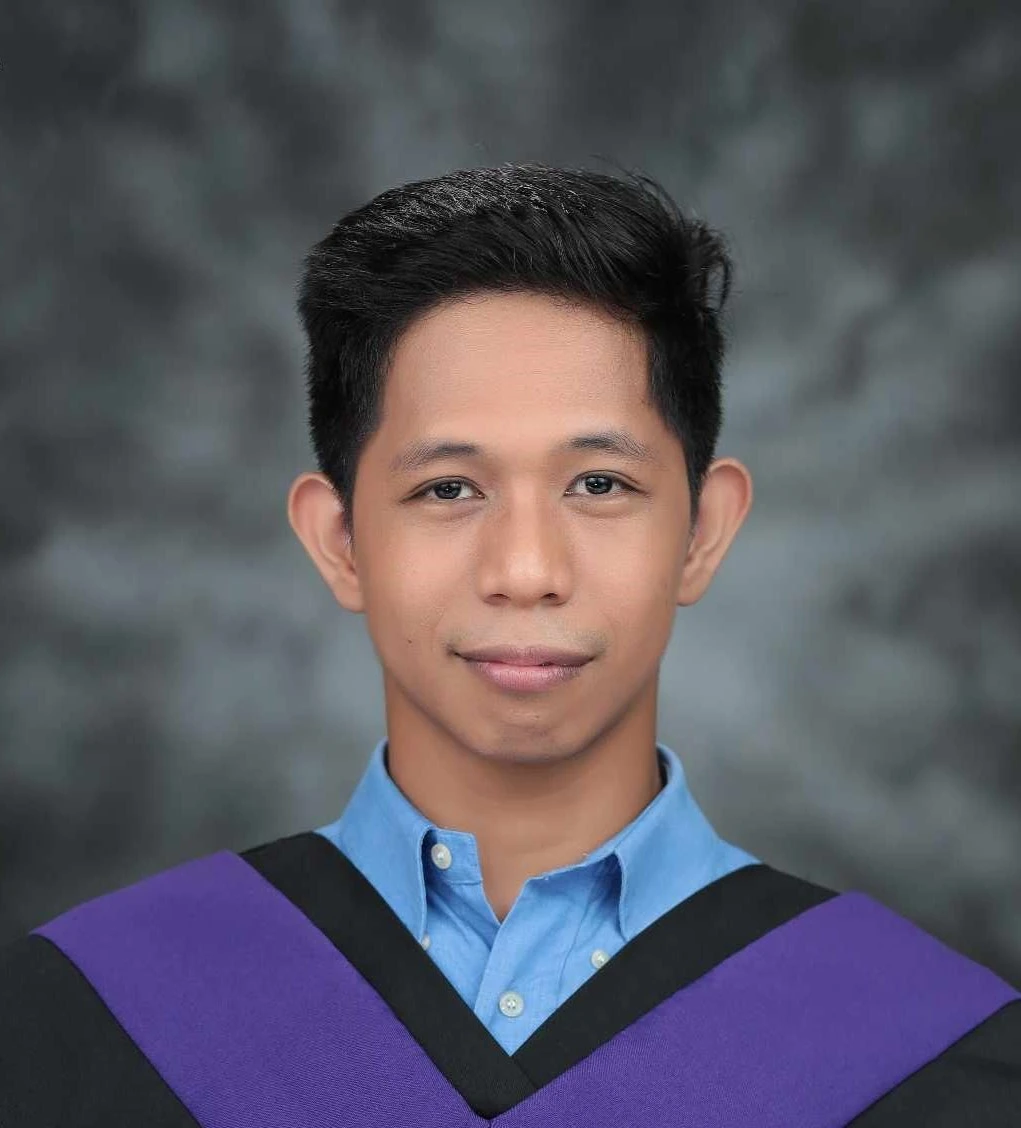
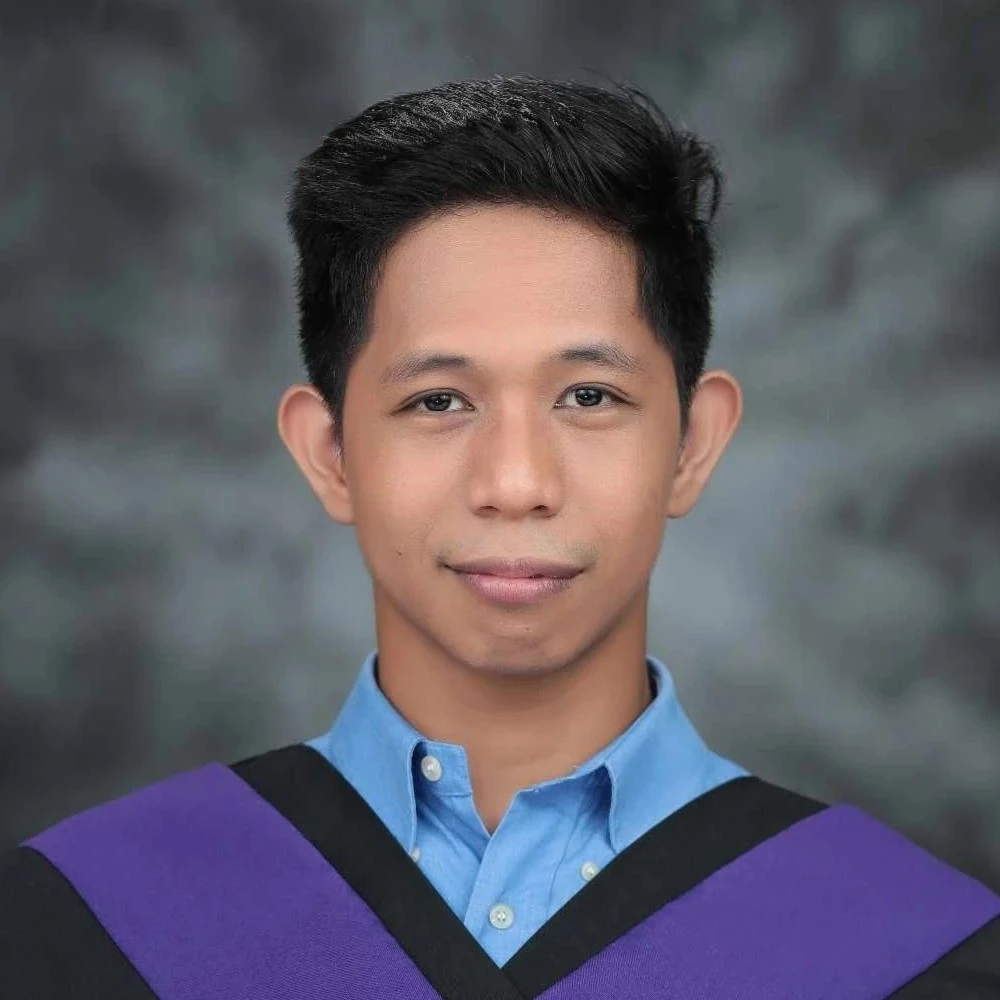
Fix
Ratio and packages

diff --git a/components/non-reusable/landing/about/index.tsx b/components/non-reusable/landing/about/index.tsx
@@ -1,24 +1,23 @@
 import React from 'react'
 import { GrMysql } from 'react-icons/gr'
 import { VscGithub } from 'react-icons/vsc'
-import { TbBrandCss3, TbBrandHtml5 } from 'react-icons/tb'
 import { IoLogoTableau } from 'react-icons/io5'
 import { AiOutlineAndroid } from 'react-icons/ai'
 import { BiLogoTailwindCss } from 'react-icons/bi'
 import { RiBootstrapLine, RiFileExcel2Line } from 'react-icons/ri'
-import { TbBrandJavascript, TbBrandTypescript } from 'react-icons/tb'
 import { FaLaravel, FaReact, FaSass, FaPhp, FaFigma } from 'react-icons/fa'
 import { TbBrandPython, TbBrandKotlin, TbBrandDocker } from 'react-icons/tb'
 import { SiCplusplus, SiPostman, SiInsomnia, SiAdobexd } from 'react-icons/si'
+import { TbBrandJavascript, TbBrandTypescript, TbBrandCss3, TbBrandHtml5 } from 'react-icons/tb'
 
 
 import { StyledGridDisplay } from '@/components/ui/grid'
 import { StyledParagraph } from '@/components/ui/paragraph'
 import { StyledContainer } from '@/components/ui/container'
 import { SectionHeader } from '@/components/ui/sectionHeader'
+import AnimationContainer from '@/components/ui/animations/page'
 
 import { CategoryHeadings } from './style'
-import AnimationContainer from '@/components/ui/animations/page'
 
 /**
  * Renders a section of a webpage that provides information about the author, their skills, and their aspirations.

diff --git a/app/(root)/page.tsx b/app/(root)/page.tsx
@@ -3,15 +3,16 @@
 import Head from 'next/head';
 import styled from '@emotion/styled';
 import React, { Suspense } from 'react';
+
 import { Floaters } from '@/components/ui/floaters'
-import { StyledHeaderNavigation } from '@/components/ui/headNav'
 import { StyledContainer } from '@/components/ui/container'
+import { StyledHeaderNavigation } from '@/components/ui/headNav'
 
 const HeroSection = React.lazy( () => import( '@/components/non-reusable/landing/hero' ) );
 const AboutSection = React.lazy( () => import( '@/components/non-reusable/landing/about' ) );
-const ExperienceSection = React.lazy( () => import( '@/components/non-reusable/landing/experience' ) );
-const ProjectsSection = React.lazy( () => import( '@/components/non-reusable/landing/projects' ) );
 const ContactSection = React.lazy( () => import( '@/components/non-reusable/landing/contact' ) );
+const ProjectsSection = React.lazy( () => import( '@/components/non-reusable/landing/projects' ) );
+const ExperienceSection = React.lazy( () => import( '@/components/non-reusable/landing/experience' ) );
 
 /**
  * Renders the home page of the website.

diff --git a/components/non-reusable/landing/experience/index.tsx b/components/non-reusable/landing/experience/index.tsx
@@ -1,7 +1,5 @@
 import Image from 'next/image'
-import { useReducer, useEffect } from 'react';
-import { motion, useAnimation } from "framer-motion";
-import { useInView } from "react-intersection-observer";
+import { useReducer } from 'react';
 
 import
 {
@@ -16,10 +14,10 @@ import
   ExperienceContentContainer,
 } from './style'
 
-import { SectionHeader } from '@/components/ui/sectionHeader'
 import { StyledContainer } from '@/components/ui/container'
-import { ButtonProps, StyledButton } from '@/components/ui/buttons'
+import { SectionHeader } from '@/components/ui/sectionHeader'
 import AnimationContainer from '@/components/ui/animations/page';
+import { ButtonProps, StyledButton } from '@/components/ui/buttons'
 
 
 interface ExperienceData

diff --git a/components/ui/floaters/index.tsx b/components/ui/floaters/index.tsx
@@ -1,9 +1,10 @@
 import React from 'react'
-import { FloaterBorder, FloaterContainer, PopupIcon } from './style'
-import { VscGithub } from "react-icons/vsc";
-import { AiOutlineLinkedin } from "react-icons/ai";
 import { FiMail } from "react-icons/fi";
 import { FaFigma } from "react-icons/fa";
+import { VscGithub } from "react-icons/vsc";
+import { AiOutlineLinkedin } from "react-icons/ai";
+
+import { FloaterBorder, FloaterContainer, PopupIcon } from './style'
 
 /**
  * Renders a fixed-positioned bar at the bottom of a webpage, containing links to the developer's social media accounts and email address.

diff --git a/components/non-reusable/landing/contact/index.tsx b/components/non-reusable/landing/contact/index.tsx
@@ -2,10 +2,10 @@ import React from 'react'
 
 import { ContactSubHeader } from './style'
 
-import { SectionHeader } from '@/components/ui/sectionHeader'
 import { StyledButton } from '@/components/ui/buttons'
 import { StyledParagraph } from '@/components/ui/paragraph'
 import { StyledContainer } from '@/components/ui/container'
+import { SectionHeader } from '@/components/ui/sectionHeader'
 import AnimationContainer from '@/components/ui/animations/page'
 
 /**

diff --git a/components/ui/headNav/index.tsx b/components/ui/headNav/index.tsx
@@ -2,9 +2,9 @@ import Link from 'next/link';
 import Image from 'next/image';
 import { useEffect, useState } from 'react';
 import { useAnimation } from 'framer-motion';
+import { CiMenuKebab } from "react-icons/ci";
 
 import { ButtonProps, StyledButton } from '@/components/ui/buttons';
-import { CiMenuKebab } from "react-icons/ci";
 
 import { ButtonGroupStyles, HeaderStyles, LogoStyles, MenuCloseButton, MenuContainer, NavButton } from './style';
 

diff --git a/components/non-reusable/landing/projects/index.tsx b/components/non-reusable/landing/projects/index.tsx
@@ -1,4 +1,5 @@
 import React from 'react'
+import Image from 'next/image'
 
 import
 {
@@ -15,7 +16,6 @@ import
 import { StyledContainer } from '@/components/ui/container'
 import { SectionHeader } from '@/components/ui/sectionHeader'
 import AnimationContainer from '@/components/ui/animations/page'
-import Image from 'next/image'
 
 /**
  * Renders a section displaying a list of projects with their details.

diff --git a/components/ui/grid/index.tsx b/components/ui/grid/index.tsx
@@ -1,7 +1,9 @@
 import React from 'react'
+import PropTypes from 'prop-types'
+
 import { GridContainerStyle, WordItemStyle } from './style'
-import PropTypes from 'prop-types';
-import AnimationContainer from '../animations/page';
+  ;
+import AnimationContainer from '@/components/ui/animations/page';
 
 StyledGridDisplay.propTypes = {
   list: PropTypes.array.isRequired,

diff --git a/components/ui/container/index.tsx b/components/ui/container/index.tsx
@@ -1,6 +1,7 @@
 import React from 'react'
-import { HeroStyledSectionContainer, StyledMainContainer, StyledSectionContainer } from './style'
 import PropTypes from 'prop-types';
+
+import { HeroStyledSectionContainer, StyledMainContainer, StyledSectionContainer } from './style'
 
 StyledContainer.propTypes = {
   children: PropTypes.node.isRequired,

diff --git a/components/ui/sectionHeader/index.tsx b/components/ui/sectionHeader/index.tsx
@@ -1,6 +1,7 @@
 import React from 'react'
-import { SectionHeaderStyles, SectionHeaderNumberStyles, SectionHeaderTitleStyles } from './style'
 import PropTypes from 'prop-types';
+
+import { SectionHeaderStyles, SectionHeaderNumberStyles, SectionHeaderTitleStyles } from './style'
 
 SectionHeader.propTypes = {
   number: PropTypes.string.isRequired,

diff --git a/components/ui/animations/page.tsx b/components/ui/animations/page.tsx
@@ -1,8 +1,8 @@
 'use client'
 
+import { useEffect } from "react";
 import { motion, useAnimation } from "framer-motion";
 import { useInView } from "react-intersection-observer";
-import { useEffect } from "react";
 
 interface AnimationContainerProps
 {

diff --git a/components/ui/profile/index.tsx b/components/ui/profile/index.tsx
@@ -1,6 +1,7 @@
 import React from 'react'
-import { StyledProfile } from './style'
 import Image from 'next/image'
+
+import { StyledProfile } from './style'
 
 /**
  * Renders a profile image with a cover effect and four rectangular borders.
